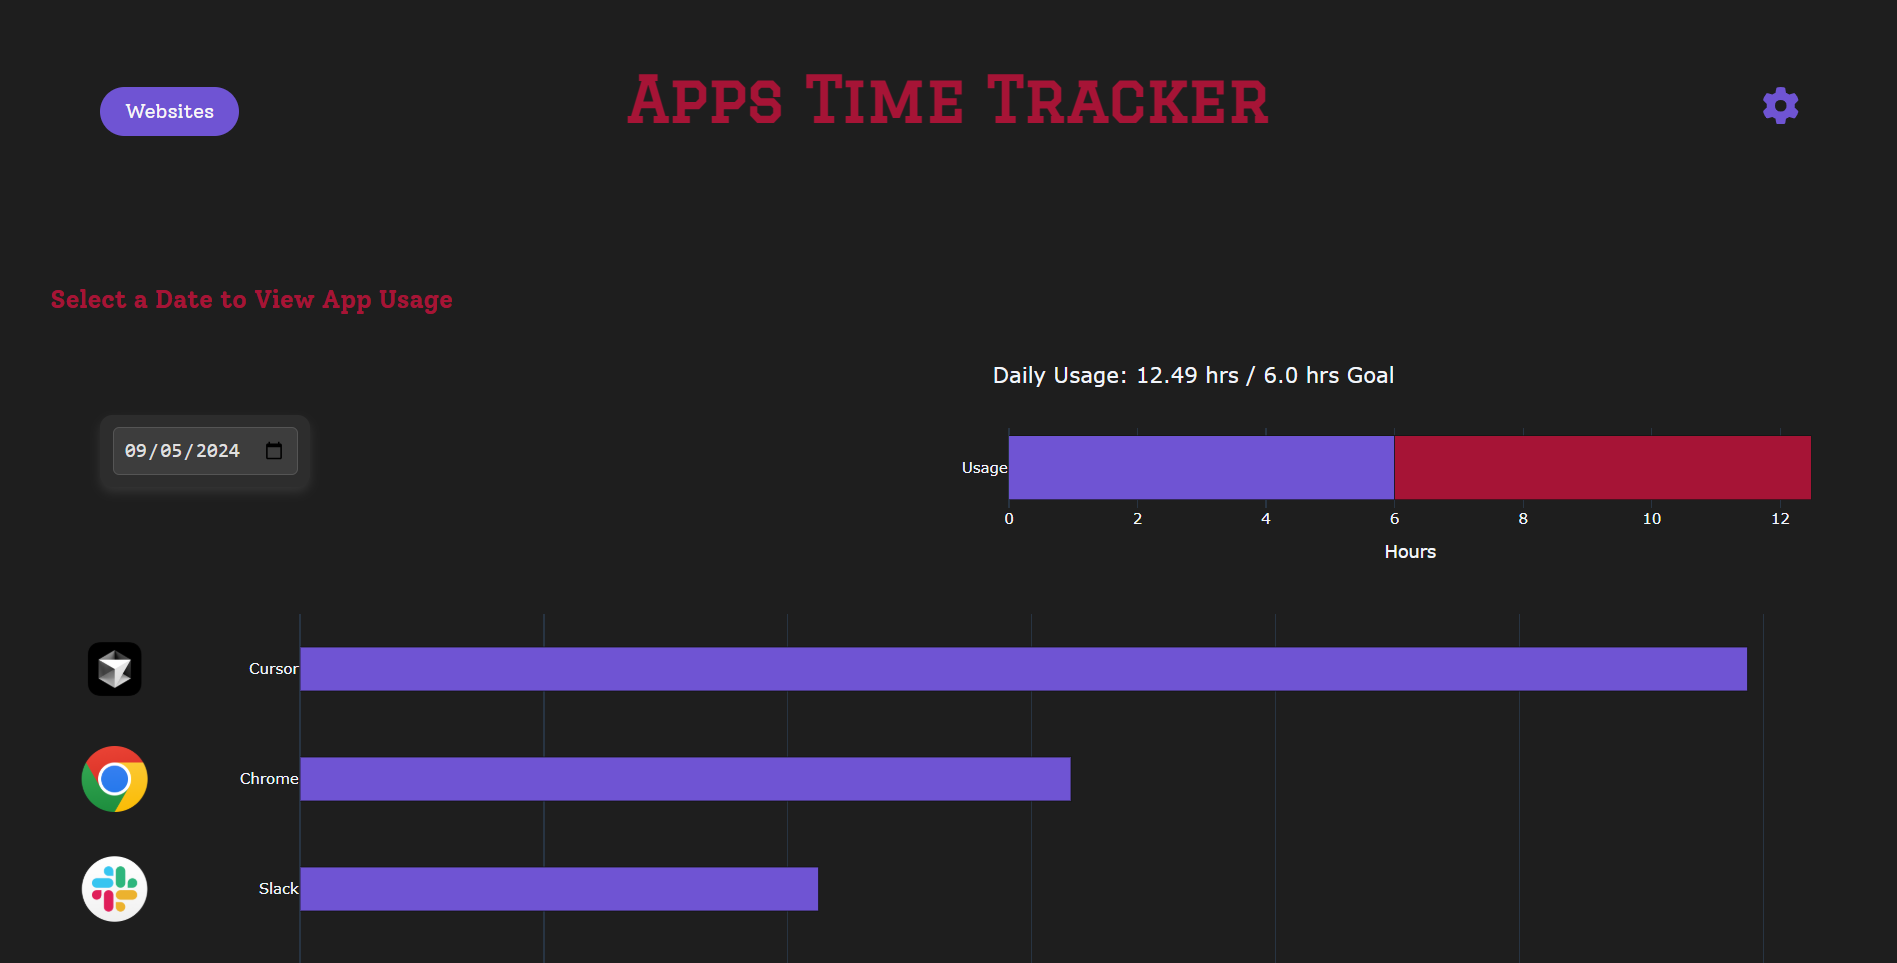
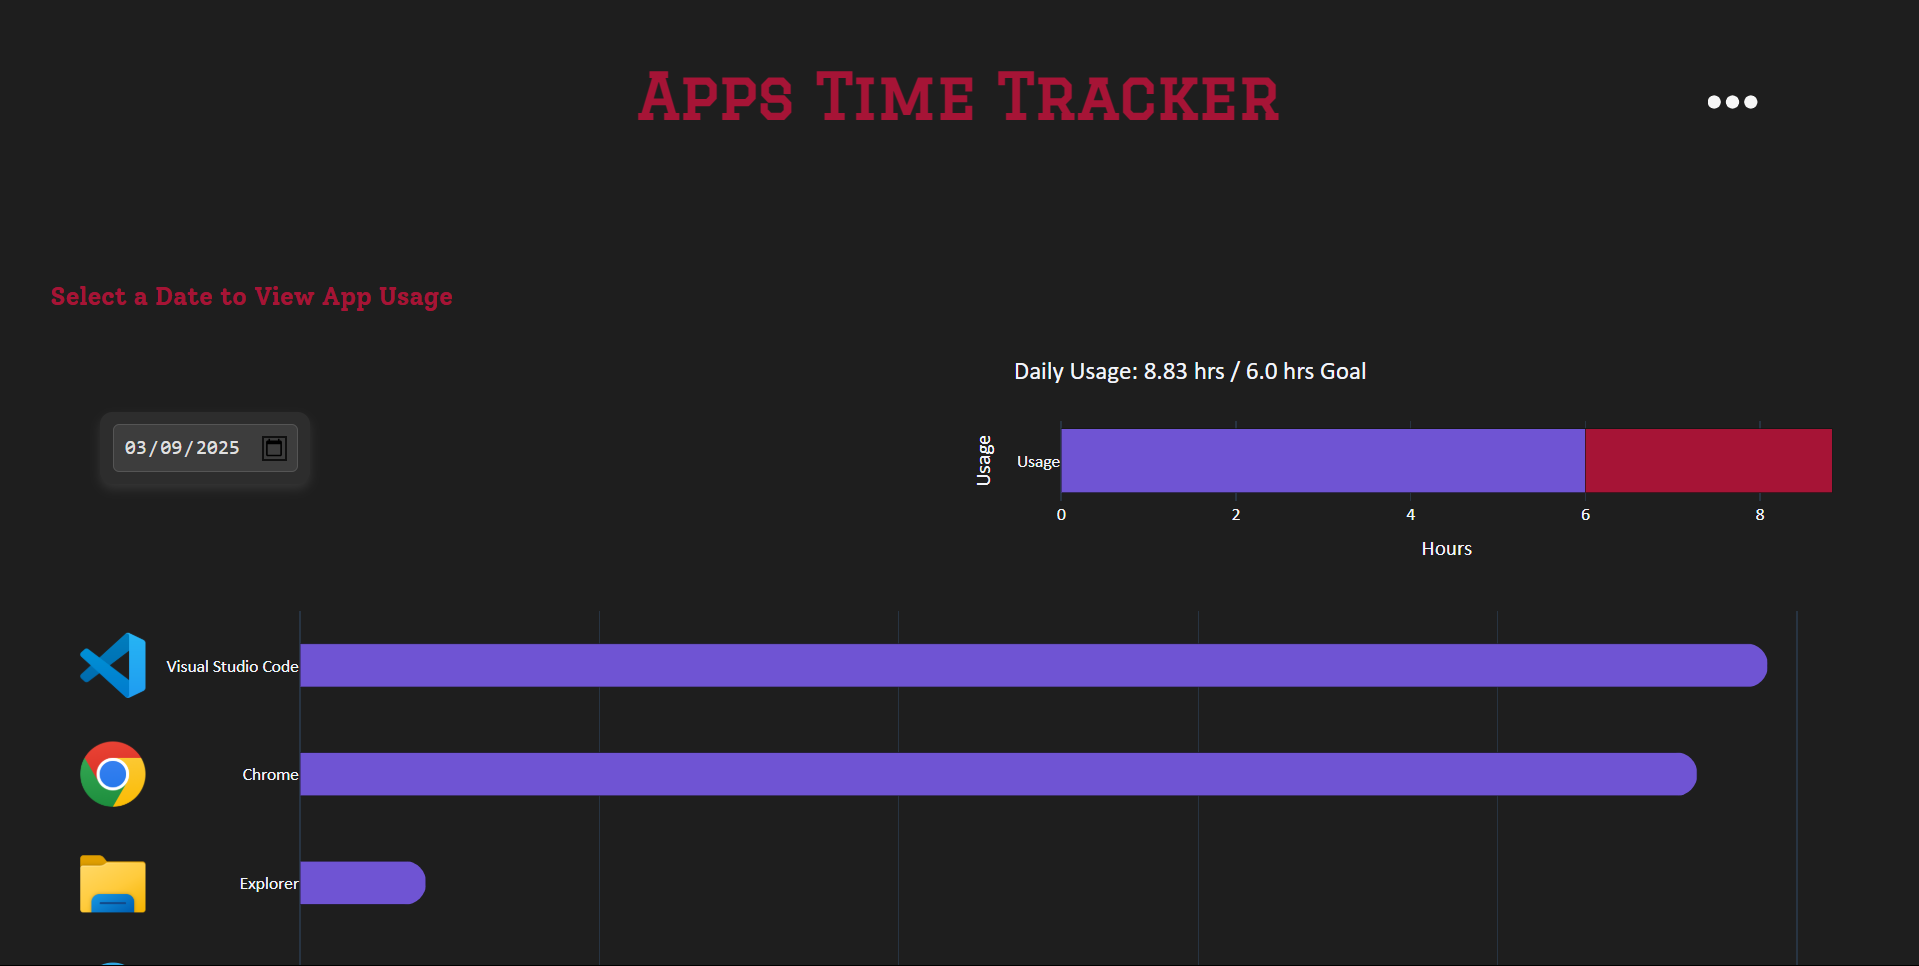
UI Improvements
Changes Made:
- Improve charts: add font & round bars
- Merge nav buttons into menu button
- Substitute few svgs
- Update README (& its assets)

diff --git a/src/templates/browser.html b/src/templates/browser.html
@@ -15,8 +15,21 @@
     <h1>Websites Time Tracker</h1>
     
     {% if is_extension_active %}
-    <a id="tag" href="/">Apps</a>
-    <a id="settings" href="settings"><svg xmlns="http://www.w3.org/2000/svg" viewBox="0 0 512 512"><path d="M495.9 166.6c3.2 8.7 .5 18.4-6.4 24.6l-43.3 39.4c1.1 8.3 1.7 16.8 1.7 25.4s-.6 17.1-1.7 25.4l43.3 39.4c6.9 6.2 9.6 15.9 6.4 24.6c-4.4 11.9-9.7 23.3-15.8 34.3l-4.7 8.1c-6.6 11-14 21.4-22.1 31.2c-5.9 7.2-15.7 9.6-24.5 6.8l-55.7-17.7c-13.4 10.3-28.2 18.9-44 25.4l-12.5 57.1c-2 9.1-9 16.3-18.2 17.8c-13.8 2.3-28 3.5-42.5 3.5s-28.7-1.2-42.5-3.5c-9.2-1.5-16.2-8.7-18.2-17.8l-12.5-57.1c-15.8-6.5-30.6-15.1-44-25.4L83.1 425.9c-8.8 2.8-18.6 .3-24.5-6.8c-8.1-9.8-15.5-20.2-22.1-31.2l-4.7-8.1c-6.1-11-11.4-22.4-15.8-34.3c-3.2-8.7-.5-18.4 6.4-24.6l43.3-39.4C64.6 273.1 64 264.6 64 256s.6-17.1 1.7-25.4L22.4 191.2c-6.9-6.2-9.6-15.9-6.4-24.6c4.4-11.9 9.7-23.3 15.8-34.3l4.7-8.1c6.6-11 14-21.4 22.1-31.2c5.9-7.2 15.7-9.6 24.5-6.8l55.7 17.7c13.4-10.3 28.2-18.9 44-25.4l12.5-57.1c2-9.1 9-16.3 18.2-17.8C227.3 1.2 241.5 0 256 0s28.7 1.2 42.5 3.5c9.2 1.5 16.2 8.7 18.2 17.8l12.5 57.1c15.8 6.5 30.6 15.1 44 25.4l55.7-17.7c8.8-2.8 18.6-.3 24.5 6.8c8.1 9.8 15.5 20.2 22.1 31.2l4.7 8.1c6.1 11 11.4 22.4 15.8 34.3zM256 336c44.2 0 80-35.8 80-80s-35.8-80-80-80s-80 35.8-80 80s35.8 80 80 80z"/></svg></a>
+    <svg id="nav-menu-toggler" version="1.1" xmlns="http://www.w3.org/2000/svg" xmlns:xlink="http://www.w3.org/1999/xlink" viewBox="0 0 41.915 41.916" xml:space="preserve"><g><g><path d="M11.214,20.956c0,3.091-2.509,5.589-5.607,5.589C2.51,26.544,0,24.046,0,20.956c0-3.082,2.511-5.585,5.607-5.585 C8.705,15.371,11.214,17.874,11.214,20.956z"/><path d="M26.564,20.956c0,3.091-2.509,5.589-5.606,5.589c-3.097,0-5.607-2.498-5.607-5.589c0-3.082,2.511-5.585,5.607-5.585 C24.056,15.371,26.564,17.874,26.564,20.956z"/><path d="M41.915,20.956c0,3.091-2.509,5.589-5.607,5.589c-3.097,0-5.606-2.498-5.606-5.589c0-3.082,2.511-5.585,5.606-5.585 C39.406,15.371,41.915,17.874,41.915,20.956z"/></g></g></svg>
+    <nav id="nav-menu">
+        <a href="/">
+            <svg viewBox="0 0 24 24" xmlns="http://www.w3.org/2000/svg"><rect/><path fill-rule="evenodd" clip-rule="evenodd" d="M17.5 13C18.1814 13 18.7678 12.9988 19.2443 13.0473C19.7375 13.0974 20.2228 13.209 20.6667 13.5056C20.9943 13.7245 21.2755 14.0057 21.4944 14.3333C21.791 14.7772 21.9026 15.2625 21.9527 15.7557C22.0001 16.2209 22 16.7907 22 17.4514C22 18.0483 22.0132 18.6497 21.9527 19.2443C21.9026 19.7375 21.791 20.2228 21.4944 20.6667C21.2755 20.9943 20.9943 21.2755 20.6667 21.4944C20.2228 21.791 19.7375 21.9026 19.2443 21.9527C18.7791 22.0001 18.2093 22 17.5486 22C16.9517 22 16.3503 22.0132 15.7557 21.9527C15.2625 21.9026 14.7772 21.791 14.3333 21.4944C14.0057 21.2755 13.7245 20.9943 13.5056 20.6667C13.209 20.2228 13.0974 19.7375 13.0473 19.2443C12.9988 18.7678 13 18.1814 13 17.5C13 16.8186 12.9988 16.2322 13.0473 15.7557C13.0974 15.2625 13.209 14.7772 13.5056 14.3333C13.7245 14.0057 14.0057 13.7245 14.3333 13.5056C14.7772 13.209 15.2625 13.0974 15.7557 13.0473C16.2322 12.9988 16.8186 13 17.5 13Z"/><path fill-rule="evenodd" clip-rule="evenodd" d="M6.5 13C7.18141 13 7.76776 12.9988 8.24428 13.0473C8.73752 13.0974 9.22279 13.209 9.66671 13.5056C9.99428 13.7245 10.2755 14.0057 10.4944 14.3333C10.791 14.7772 10.9026 15.2625 10.9527 15.7557C11.0001 16.2209 11 16.7907 11 17.4514C11 18.0483 11.0132 18.6497 10.9527 19.2443C10.9026 19.7375 10.791 20.2228 10.4944 20.6667C10.2755 20.9943 9.99428 21.2755 9.66671 21.4944C9.22279 21.791 8.73752 21.9026 8.24428 21.9527C7.77912 22.0001 7.20932 22 6.54857 22C5.95171 22 5.35034 22.0132 4.75572 21.9527C4.26248 21.9026 3.77721 21.791 3.33329 21.4944C3.00572 21.2755 2.72447 20.9943 2.50559 20.6667C2.20898 20.2228 2.09745 19.7375 2.04727 19.2443C1.99879 18.7678 2 18.1814 2 17.5C2 16.8186 1.99879 16.2322 2.04727 15.7557C2.09745 15.2625 2.20898 14.7772 2.50559 14.3333C2.72447 14.0057 3.00572 13.7245 3.33329 13.5056C3.77721 13.209 4.26248 13.0974 4.75572 13.0473C5.23225 12.9988 5.81858 13 6.5 13Z"/><path fill-rule="evenodd" clip-rule="evenodd" d="M6.5 2C7.18141 2 7.76776 1.99879 8.24428 2.04727C8.73752 2.09745 9.22279 2.20898 9.66671 2.50559C9.99428 2.72447 10.2755 3.00572 10.4944 3.33329C10.791 3.77721 10.9026 4.26248 10.9527 4.75572C11.0001 5.22089 11 5.79069 11 6.45143C11 7.04829 11.0132 7.64966 10.9527 8.24428C10.9026 8.73752 10.791 9.22279 10.4944 9.66671C10.2755 9.99428 9.99428 10.2755 9.66671 10.4944C9.22279 10.791 8.73752 10.9026 8.24428 10.9527C7.77912 11.0001 7.20932 11 6.54857 11C5.95171 11 5.35034 11.0132 4.75572 10.9527C4.26248 10.9026 3.77721 10.791 3.33329 10.4944C3.00572 10.2755 2.72447 9.99428 2.50559 9.66671C2.20898 9.22279 2.09745 8.73752 2.04727 8.24428C1.99879 7.76776 2 7.18142 2 6.5C2 5.81858 1.99879 5.23225 2.04727 4.75572C2.09745 4.26248 2.20898 3.77721 2.50559 3.33329C2.72447 3.00572 3.00572 2.72447 3.33329 2.50559C3.77721 2.20898 4.26248 2.09745 4.75572 2.04727C5.23225 1.99879 5.81858 2 6.5 2Z"/><path fill-rule="evenodd" clip-rule="evenodd" d="M18.5 3C18.5 2.44772 18.0523 2 17.5 2C16.9477 2 16.5 2.44772 16.5 3V5.5H14C13.4477 5.5 13 5.94772 13 6.5C13 7.05228 13.4477 7.5 14 7.5H16.5V10C16.5 10.5523 16.9477 11 17.5 11C18.0523 11 18.5 10.5523 18.5 10V7.5H21C21.5523 7.5 22 7.05228 22 6.5C22 5.94772 21.5523 5.5 21 5.5H18.5V3Z"/></svg>
+            Apps
+        </a>
+        <a href="settings">
+            <svg xmlns="http://www.w3.org/2000/svg" viewBox="0 0 512 512"><path d="M495.9 166.6c3.2 8.7 .5 18.4-6.4 24.6l-43.3 39.4c1.1 8.3 1.7 16.8 1.7 25.4s-.6 17.1-1.7 25.4l43.3 39.4c6.9 6.2 9.6 15.9 6.4 24.6c-4.4 11.9-9.7 23.3-15.8 34.3l-4.7 8.1c-6.6 11-14 21.4-22.1 31.2c-5.9 7.2-15.7 9.6-24.5 6.8l-55.7-17.7c-13.4 10.3-28.2 18.9-44 25.4l-12.5 57.1c-2 9.1-9 16.3-18.2 17.8c-13.8 2.3-28 3.5-42.5 3.5s-28.7-1.2-42.5-3.5c-9.2-1.5-16.2-8.7-18.2-17.8l-12.5-57.1c-15.8-6.5-30.6-15.1-44-25.4L83.1 425.9c-8.8 2.8-18.6 .3-24.5-6.8c-8.1-9.8-15.5-20.2-22.1-31.2l-4.7-8.1c-6.1-11-11.4-22.4-15.8-34.3c-3.2-8.7-.5-18.4 6.4-24.6l43.3-39.4C64.6 273.1 64 264.6 64 256s.6-17.1 1.7-25.4L22.4 191.2c-6.9-6.2-9.6-15.9-6.4-24.6c4.4-11.9 9.7-23.3 15.8-34.3l4.7-8.1c6.6-11 14-21.4 22.1-31.2c5.9-7.2 15.7-9.6 24.5-6.8l55.7 17.7c13.4-10.3 28.2-18.9 44-25.4l12.5-57.1c2-9.1 9-16.3 18.2-17.8C227.3 1.2 241.5 0 256 0s28.7 1.2 42.5 3.5c9.2 1.5 16.2 8.7 18.2 17.8l12.5 57.1c15.8 6.5 30.6 15.1 44 25.4l55.7-17.7c8.8-2.8 18.6-.3 24.5 6.8c8.1 9.8 15.5 20.2 22.1 31.2l4.7 8.1c6.1 11 11.4 22.4 15.8 34.3zM256 336c44.2 0 80-35.8 80-80s-35.8-80-80-80s-80 35.8-80 80s35.8 80 80 80z"/></svg>
+            Settings
+        </a>
+        <a href="report">
+            <svg aria-hidden="true" data-prefix="far" data-icon="analytics" role="img" xmlns="http://www.w3.org/2000/svg" viewBox="0 0 608 512" class="svg-inline--fa fa-analytics fa-w-19 fa-7x"><path d="M416 320h-64c-17.67 0-32 14.33-32 32v128c0 17.67 14.33 32 32 32h64c17.67 0 32-14.33 32-32V352c0-17.67-14.33-32-32-32zm-16 144h-32v-96h32v96zm176-272h-64c-17.67 0-32 14.33-32 32v256c0 17.67 14.33 32 32 32h64c17.67 0 32-14.33 32-32V224c0-17.67-14.33-32-32-32zm-16 272h-32V240h32v224zM256 192h-64c-17.67 0-32 14.33-32 32v256c0 17.67 14.33 32 32 32h64c17.67 0 32-14.33 32-32V224c0-17.67-14.33-32-32-32zm-16 272h-32V240h32v224zM96 352H32c-17.67 0-32 14.33-32 32v96c0 17.67 14.33 32 32 32h64c17.67 0 32-14.33 32-32v-96c0-17.67-14.33-32-32-32zM80 464H48v-64h32v64zM64 256c26.51 0 48-21.49 48-48 0-4.27-.74-8.34-1.78-12.28l101.5-101.5C215.66 95.26 219.73 96 224 96c6.15 0 11.97-1.26 17.38-3.37l95.34 76.27c-.35 2.33-.71 4.67-.71 7.1 0 26.51 21.49 48 48 48s48-21.49 48-48c0-2.43-.37-4.76-.71-7.09l95.34-76.27C532.03 94.74 537.85 96 544 96c26.51 0 48-21.49 48-48S570.51 0 544 0s-48 21.49-48 48c0 2.43.37 4.76.71 7.09l-95.34 76.27c-5.4-2.11-11.23-3.37-17.38-3.37s-11.97 1.26-17.38 3.37L271.29 55.1c.35-2.33.71-4.67.71-7.1 0-26.51-21.49-48-48-48s-48 21.49-48 48c0 4.27.74 8.34 1.78 12.28l-101.5 101.5C72.34 160.74 68.27 160 64 160c-26.51 0-48 21.49-48 48s21.49 48 48 48z" class=""></path></svg>
+            Summary
+        </a>
+    </nav>
 
     <!-- For the date selection form (app usage graph) -->
     <h2>Select a Date to View Websites Usage</h2>

diff --git a/src/templates/index.html b/src/templates/index.html
@@ -14,14 +14,24 @@
 <body>
     <h1>Apps Time Tracker</h1>
     
-    <a id="tag" href="/browser">Websites</a>
-    <a id="settings" href="settings"><svg xmlns="http://www.w3.org/2000/svg" viewBox="0 0 512 512"><path d="M495.9 166.6c3.2 8.7 .5 18.4-6.4 24.6l-43.3 39.4c1.1 8.3 1.7 16.8 1.7 25.4s-.6 17.1-1.7 25.4l43.3 39.4c6.9 6.2 9.6 15.9 6.4 24.6c-4.4 11.9-9.7 23.3-15.8 34.3l-4.7 8.1c-6.6 11-14 21.4-22.1 31.2c-5.9 7.2-15.7 9.6-24.5 6.8l-55.7-17.7c-13.4 10.3-28.2 18.9-44 25.4l-12.5 57.1c-2 9.1-9 16.3-18.2 17.8c-13.8 2.3-28 3.5-42.5 3.5s-28.7-1.2-42.5-3.5c-9.2-1.5-16.2-8.7-18.2-17.8l-12.5-57.1c-15.8-6.5-30.6-15.1-44-25.4L83.1 425.9c-8.8 2.8-18.6 .3-24.5-6.8c-8.1-9.8-15.5-20.2-22.1-31.2l-4.7-8.1c-6.1-11-11.4-22.4-15.8-34.3c-3.2-8.7-.5-18.4 6.4-24.6l43.3-39.4C64.6 273.1 64 264.6 64 256s.6-17.1 1.7-25.4L22.4 191.2c-6.9-6.2-9.6-15.9-6.4-24.6c4.4-11.9 9.7-23.3 15.8-34.3l4.7-8.1c6.6-11 14-21.4 22.1-31.2c5.9-7.2 15.7-9.6 24.5-6.8l55.7 17.7c13.4-10.3 28.2-18.9 44-25.4l12.5-57.1c2-9.1 9-16.3 18.2-17.8C227.3 1.2 241.5 0 256 0s28.7 1.2 42.5 3.5c9.2 1.5 16.2 8.7 18.2 17.8l12.5 57.1c15.8 6.5 30.6 15.1 44 25.4l55.7-17.7c8.8-2.8 18.6-.3 24.5 6.8c8.1 9.8 15.5 20.2 22.1 31.2l4.7 8.1c6.1 11 11.4 22.4 15.8 34.3zM256 336c44.2 0 80-35.8 80-80s-35.8-80-80-80s-80 35.8-80 80s35.8 80 80 80z"/></svg></a>
+    <svg id="nav-menu-toggler" version="1.1" xmlns="http://www.w3.org/2000/svg" xmlns:xlink="http://www.w3.org/1999/xlink" viewBox="0 0 41.915 41.916" xml:space="preserve"><g><g><path d="M11.214,20.956c0,3.091-2.509,5.589-5.607,5.589C2.51,26.544,0,24.046,0,20.956c0-3.082,2.511-5.585,5.607-5.585 C8.705,15.371,11.214,17.874,11.214,20.956z"/><path d="M26.564,20.956c0,3.091-2.509,5.589-5.606,5.589c-3.097,0-5.607-2.498-5.607-5.589c0-3.082,2.511-5.585,5.607-5.585 C24.056,15.371,26.564,17.874,26.564,20.956z"/><path d="M41.915,20.956c0,3.091-2.509,5.589-5.607,5.589c-3.097,0-5.606-2.498-5.606-5.589c0-3.082,2.511-5.585,5.606-5.585 C39.406,15.371,41.915,17.874,41.915,20.956z"/></g></g></svg>
+    <nav id="nav-menu">
+        <a href="browser">
+            <svg xmlns="http://www.w3.org/2000/svg" viewBox="0 0 512 512"><path d="M0 256C0 209.4 12.47 165.6 34.27 127.1L144.1 318.3C166 357.5 207.9 384 256 384C270.3 384 283.1 381.7 296.8 377.4L220.5 509.6C95.9 492.3 0 385.3 0 256zM365.1 321.6C377.4 302.4 384 279.1 384 256C384 217.8 367.2 183.5 340.7 160H493.4C505.4 189.6 512 222.1 512 256C512 397.4 397.4 511.1 256 512L365.1 321.6zM477.8 128H256C193.1 128 142.3 172.1 130.5 230.7L54.19 98.47C101 38.53 174 0 256 0C350.8 0 433.5 51.48 477.8 128V128zM168 256C168 207.4 207.4 168 256 168C304.6 168 344 207.4 344 256C344 304.6 304.6 344 256 344C207.4 344 168 304.6 168 256z"/></svg>
+            Browser
+        </a>
+        <a href="settings">
+            <svg xmlns="http://www.w3.org/2000/svg" viewBox="0 0 512 512"><path d="M495.9 166.6c3.2 8.7 .5 18.4-6.4 24.6l-43.3 39.4c1.1 8.3 1.7 16.8 1.7 25.4s-.6 17.1-1.7 25.4l43.3 39.4c6.9 6.2 9.6 15.9 6.4 24.6c-4.4 11.9-9.7 23.3-15.8 34.3l-4.7 8.1c-6.6 11-14 21.4-22.1 31.2c-5.9 7.2-15.7 9.6-24.5 6.8l-55.7-17.7c-13.4 10.3-28.2 18.9-44 25.4l-12.5 57.1c-2 9.1-9 16.3-18.2 17.8c-13.8 2.3-28 3.5-42.5 3.5s-28.7-1.2-42.5-3.5c-9.2-1.5-16.2-8.7-18.2-17.8l-12.5-57.1c-15.8-6.5-30.6-15.1-44-25.4L83.1 425.9c-8.8 2.8-18.6 .3-24.5-6.8c-8.1-9.8-15.5-20.2-22.1-31.2l-4.7-8.1c-6.1-11-11.4-22.4-15.8-34.3c-3.2-8.7-.5-18.4 6.4-24.6l43.3-39.4C64.6 273.1 64 264.6 64 256s.6-17.1 1.7-25.4L22.4 191.2c-6.9-6.2-9.6-15.9-6.4-24.6c4.4-11.9 9.7-23.3 15.8-34.3l4.7-8.1c6.6-11 14-21.4 22.1-31.2c5.9-7.2 15.7-9.6 24.5-6.8l55.7 17.7c13.4-10.3 28.2-18.9 44-25.4l12.5-57.1c2-9.1 9-16.3 18.2-17.8C227.3 1.2 241.5 0 256 0s28.7 1.2 42.5 3.5c9.2 1.5 16.2 8.7 18.2 17.8l12.5 57.1c15.8 6.5 30.6 15.1 44 25.4l55.7-17.7c8.8-2.8 18.6-.3 24.5 6.8c8.1 9.8 15.5 20.2 22.1 31.2l4.7 8.1c6.1 11 11.4 22.4 15.8 34.3zM256 336c44.2 0 80-35.8 80-80s-35.8-80-80-80s-80 35.8-80 80s35.8 80 80 80z"/></svg>
+            Settings
+        </a>
+        <a href="report">
+            <svg aria-hidden="true" data-prefix="far" data-icon="analytics" role="img" xmlns="http://www.w3.org/2000/svg" viewBox="0 0 608 512" class="svg-inline--fa fa-analytics fa-w-19 fa-7x"><path d="M416 320h-64c-17.67 0-32 14.33-32 32v128c0 17.67 14.33 32 32 32h64c17.67 0 32-14.33 32-32V352c0-17.67-14.33-32-32-32zm-16 144h-32v-96h32v96zm176-272h-64c-17.67 0-32 14.33-32 32v256c0 17.67 14.33 32 32 32h64c17.67 0 32-14.33 32-32V224c0-17.67-14.33-32-32-32zm-16 272h-32V240h32v224zM256 192h-64c-17.67 0-32 14.33-32 32v256c0 17.67 14.33 32 32 32h64c17.67 0 32-14.33 32-32V224c0-17.67-14.33-32-32-32zm-16 272h-32V240h32v224zM96 352H32c-17.67 0-32 14.33-32 32v96c0 17.67 14.33 32 32 32h64c17.67 0 32-14.33 32-32v-96c0-17.67-14.33-32-32-32zM80 464H48v-64h32v64zM64 256c26.51 0 48-21.49 48-48 0-4.27-.74-8.34-1.78-12.28l101.5-101.5C215.66 95.26 219.73 96 224 96c6.15 0 11.97-1.26 17.38-3.37l95.34 76.27c-.35 2.33-.71 4.67-.71 7.1 0 26.51 21.49 48 48 48s48-21.49 48-48c0-2.43-.37-4.76-.71-7.09l95.34-76.27C532.03 94.74 537.85 96 544 96c26.51 0 48-21.49 48-48S570.51 0 544 0s-48 21.49-48 48c0 2.43.37 4.76.71 7.09l-95.34 76.27c-5.4-2.11-11.23-3.37-17.38-3.37s-11.97 1.26-17.38 3.37L271.29 55.1c.35-2.33.71-4.67.71-7.1 0-26.51-21.49-48-48-48s-48 21.49-48 48c0 4.27.74 8.34 1.78 12.28l-101.5 101.5C72.34 160.74 68.27 160 64 160c-26.51 0-48 21.49-48 48s21.49 48 48 48z" class=""></path></svg>
+            Summary
+        </a>
+    </nav>
 
     <!-- For the date selection form (app usage graph) -->
-    <div class="row">
-        <h2>Select a Date to View App Usage</h2>
-        <a href="/report" id="report">Summary</a>
-    </div>
+    <h2>Select a Date to View App Usage</h2>
     <div class="header">
         <form id="date-form">
             <input type="date" id="app-usage-date" name="date">

diff --git a/src/static/home_light.css b/src/static/home_light.css
@@ -1,32 +1,58 @@
-a#tag, a#report {
-    position: absolute;
-    top: 70px;
-    left: 80px;
+/* nav menu */
+#nav-menu {
+    display: flex;
+    flex-flow: column nowrap;
+    justify-content: space-between;
+    align-items: right;
+    gap: 5px;
+    width: fit-content;
+    padding: 10px;
     background-color: var(--purple);
-    color: var(--white);
-    padding: 10px 20px;
-    border-radius: 25px;
-}
-a#tag:hover, a#report:hover {
-    background-color: #543f9f;
-}
-a#report {
-    position: static;
-}
-
-a#settings {
+    border-radius: 20px;
     position: absolute;
-    top: 70px;
-    right: 80px;
+    top: -250px;
+    right: 60px;
+    z-index: 1;
+    transition: 1s;
 }
-a#settings svg{
-    fill: var(--purple);
-    width: 30px;
+#nav-menu a {
+    display: flex;
+    flex-direction: row;
+    align-items: center;
+    gap: 10px;
+    padding: 15px;
+    border-radius: 20px;
+    cursor: pointer;
+    transition: background-color 0.5s ease;
+}
+#nav-menu a:hover {
+    background-color: #464db1;
+}
+#nav-menu svg {
+    fill: var(--white);
+    width: 20px;
     aspect-ratio: 1/1;
 }
-a#settings svg:hover {
-    fill: #543f9f;
+#nav-menu-toggler {
+    position: absolute;
+    top: 65px;
+    right: 80px;
+    width: 40px;
+    aspect-ratio: 1/1;
+    fill: var(--white);
+    padding: 50px;
+    padding-top: 0;
+    cursor: pointer;
 }
+#nav-menu-toggler:hover + #nav-menu {
+    display: flex;
+    top: 50px;
+}
+#nav-menu:hover {
+    display: flex;
+    top: 50px;
+}
+
 
 #dayHours {
     font-family: 'Solway';

diff --git a/src/templates/report.html b/src/templates/report.html
@@ -15,7 +15,7 @@
     <title>ScreenTime Report</title>
 </head>
 <body>
-    <svg id="home" aria-hidden="true" data-prefix="far" data-icon="home" role="img" xmlns="http://www.w3.org/2000/svg" viewBox="0 0 576 512" class="svg-inline--fa fa-home fa-w-18 fa-7x"><path d="M557.1 240.7L512 203.8V104c0-4.4-3.6-8-8-8h-32c-4.4 0-8 3.6-8 8v60.5L313.4 41.1c-14.7-12.1-36-12.1-50.7 0L18.9 240.7c-3.4 2.8-3.9 7.8-1.1 11.3l20.3 24.8c2.8 3.4 7.8 3.9 11.3 1.1l14.7-12V464c0 8.8 7.2 16 16 16h168c4.4 0 8-3.6 8-8V344h64v128c0 4.4 3.6 8 8 8h168c8.8 0 16-7.2 16-16V265.8l14.7 12c3.4 2.8 8.5 2.3 11.3-1.1l20.3-24.8c2.6-3.4 2.1-8.4-1.3-11.2zM464 432h-96V304c0-4.4-3.6-8-8-8H216c-4.4 0-8 3.6-8 8v128h-96V226.5l170.9-140c2.9-2.4 7.2-2.4 10.1 0l170.9 140V432z" class=""></path></svg>
+    <svg id="home" viewBox="0 0 24 24" fill="none" xmlns="http://www.w3.org/2000/svg"><path d="M4 10L12 3L20 10L20 20H15V16C15 15.2044 14.6839 14.4413 14.1213 13.8787C13.5587 13.3161 12.7957 13 12 13C11.2044 13 10.4413 13.3161 9.87868 13.8787C9.31607 14.4413 9 15.2043 9 16V20H4L4 10Z"/><path d="M3.99999 10L12 3L20 10L20 20H15V16C15 15.2044 14.6839 14.4413 14.1213 13.8787C13.5587 13.3161 12.7956 13 12 13C11.2043 13 10.4413 13.3161 9.87868 13.8787C9.31607 14.4413 9 15.2043 9 16V20H4L3.99999 10Z"/></svg>
     <h1>Weekly ScreenTime Report</h1>
     
     <form id="aggregation-form">

diff --git a/src/templates/settings.html b/src/templates/settings.html
@@ -12,7 +12,7 @@
 </head>
 <body>
     <h1>Settings</h1>
-    <svg id="home" aria-hidden="true" data-prefix="far" data-icon="home" role="img" xmlns="http://www.w3.org/2000/svg" viewBox="0 0 576 512" class="svg-inline--fa fa-home fa-w-18 fa-7x"><path d="M557.1 240.7L512 203.8V104c0-4.4-3.6-8-8-8h-32c-4.4 0-8 3.6-8 8v60.5L313.4 41.1c-14.7-12.1-36-12.1-50.7 0L18.9 240.7c-3.4 2.8-3.9 7.8-1.1 11.3l20.3 24.8c2.8 3.4 7.8 3.9 11.3 1.1l14.7-12V464c0 8.8 7.2 16 16 16h168c4.4 0 8-3.6 8-8V344h64v128c0 4.4 3.6 8 8 8h168c8.8 0 16-7.2 16-16V265.8l14.7 12c3.4 2.8 8.5 2.3 11.3-1.1l20.3-24.8c2.6-3.4 2.1-8.4-1.3-11.2zM464 432h-96V304c0-4.4-3.6-8-8-8H216c-4.4 0-8 3.6-8 8v128h-96V226.5l170.9-140c2.9-2.4 7.2-2.4 10.1 0l170.9 140V432z" class=""></path></svg>
+    <svg id="home" viewBox="0 0 24 24" fill="none" xmlns="http://www.w3.org/2000/svg"><path d="M4 10L12 3L20 10L20 20H15V16C15 15.2044 14.6839 14.4413 14.1213 13.8787C13.5587 13.3161 12.7957 13 12 13C11.2044 13 10.4413 13.3161 9.87868 13.8787C9.31607 14.4413 9 15.2043 9 16V20H4L4 10Z"/><path d="M3.99999 10L12 3L20 10L20 20H15V16C15 15.2044 14.6839 14.4413 14.1213 13.8787C13.5587 13.3161 12.7956 13 12 13C11.2043 13 10.4413 13.3161 9.87868 13.8787C9.31607 14.4413 9 15.2043 9 16V20H4L3.99999 10Z"/></svg>
 
     <div class="settings-container">
         <div class="row">

diff --git a/src/static/report_light.css b/src/static/report_light.css
@@ -1,16 +1,22 @@
 /* svgs */
 svg#home {
     position: absolute;
-    top: 50px;
-    left: 70px;
+    top: 45px;
+    left: 60px;
     padding: 10px;
-    width: 40px;
+    width: 50px;
     aspect-ratio: 1/1;
-    fill: var(--red);
     cursor: pointer;
 }
-svg#home:hover {
-    background-color: rgba(104, 99, 137, 0.5);
+svg#home path {
+    fill: none;
+    stroke-width: 1px;
+    stroke: var(--red);
+    transition: fill 0.5s ease;
+}
+svg#home:hover path {
+    fill: var(--red);
+    stroke-width: 2px;
 }
 /* header */
 h1 {

diff --git a/src/static/settings_light.css b/src/static/settings_light.css
@@ -35,14 +35,24 @@ svg {
     fill: var(--red);
     cursor: pointer;
 }
-svg:hover {
+.settings-container svg:hover {
     background-color: rgba(104, 99, 137, 0.5);
 }
 svg#home {
-    width: 40px;
+    width: 50px;
     position: absolute;
-    top: 50px;
-    left: 70px;
+    top: 45px;
+    left: 60px;
+}
+svg#home path {
+    fill: none;
+    stroke-width: 1px;
+    stroke: var(--red);
+    transition: fill 0.5s ease;
+}
+svg#home:hover path {
+    fill: var(--red);
+    stroke-width: 2px;
 }
 
 

diff --git a/src/static/common_light.css b/src/static/common_light.css
@@ -46,3 +46,10 @@ a:visited {
 .yaxislayer-above g text {
     text-transform: capitalize;
 }
+/* rounded bars */
+#app-usage-chart g > g > g.points > g.point {
+    clip-path: inset(0% 0% 0% 0% round 0 50px 50px 0);
+}
+#daily-usage-chart g > g > g.points > g.point {
+    clip-path: inset(0% 0% 0% 0% round 50px 50px 0 0);
+}

diff --git a/src/utils/charts.py b/src/utils/charts.py
@@ -51,6 +51,9 @@ def create_app_usage_figure(theme: THEME, app_usage_df: pd.DataFrame, icons_dir_
         template='plotly_dark' if theme == 'dark' else 'plotly_white',
         plot_bgcolor= "rgba(0, 0, 0, 0)",
         paper_bgcolor= "rgba(0, 0, 0, 0)",
+        font=dict(family='Calibri', size=14),
+        yaxis_autorange="reversed",
+        barcornerradius=15
     )
     fig_json = json.dumps(fig, cls=PlotlyJSONEncoder)
     return fig_json
@@ -97,14 +100,17 @@ def create_total_usage_graph(theme: THEME, total_hours: float, daily_goal: float
     fig.update_layout(
         title=f'Daily Usage: {total_hours:.2f} hrs / {daily_goal} hrs Goal',
         xaxis_title='Hours',
+        yaxis_title='Usage',
         barmode='stack',
         height=180,
+        width=700,
         margin=dict(l=10, r=10, t=80, b=20),
         showlegend=False,
         xaxis=dict(range=[0, max(total_hours, daily_goal)]),
         template='plotly_dark' if theme == 'dark' else 'plotly_white',
         plot_bgcolor= "rgba(0, 0, 0, 0)",
         paper_bgcolor= "rgba(0, 0, 0, 0)",
+        font=dict(family='Calibri', size=14)
     )
 
     fig_json = json.dumps(fig, cls=PlotlyJSONEncoder)
@@ -160,6 +166,7 @@ def create_daily_usage_figure(
         template='plotly_dark' if theme == 'dark' else 'plotly_white',
         plot_bgcolor= "rgba(0, 0, 0, 0)",
         paper_bgcolor= "rgba(0, 0, 0, 0)",
+        font=dict(family='Calibri', size=14)
     )
     # add avg line if required
     if show_average:

diff --git a/README.md b/README.md
@@ -60,14 +60,14 @@ Screenshots of the webapp:
     - ~~Add daily screen time goal (symbolic, doesn't block anything)~~
 - ~~Wrap 6th+ apps as 'Others' so app usage graph contains max of 6 apps~~
 - ~~Weekly Report~~
-- Add month option for report
+- ~~Add month option for report~~
 - Add download pdf option for report
 - Add categories pie chart (let user set categories to apps)
 - ~~Track Browser Usage:~~
     - ~~Save domains~~
     - ~~Duplicate home page but for browser screen time~~
 - Improve how db connections are made (pool or something similar)
-- Merge nav buttons (websites, settings, summary) into a foldable menu button
+- ~~Merge nav buttons (websites, settings, summary) into a menu button~~
 
 These are just some ideas to be done soon, continuously modified and many features could be added later. Don't hesitate to share any suggestions!
 
